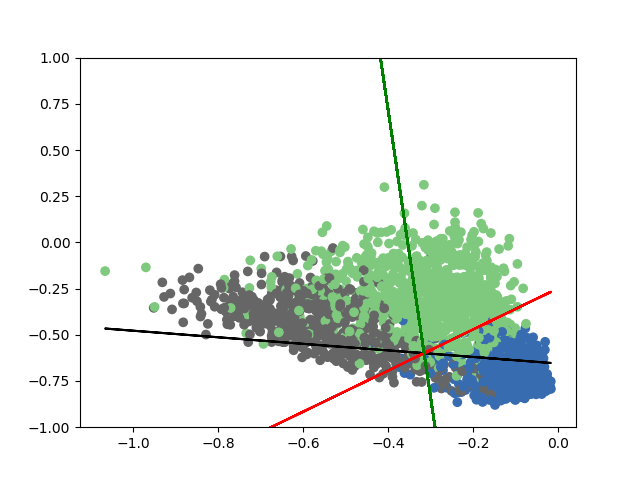
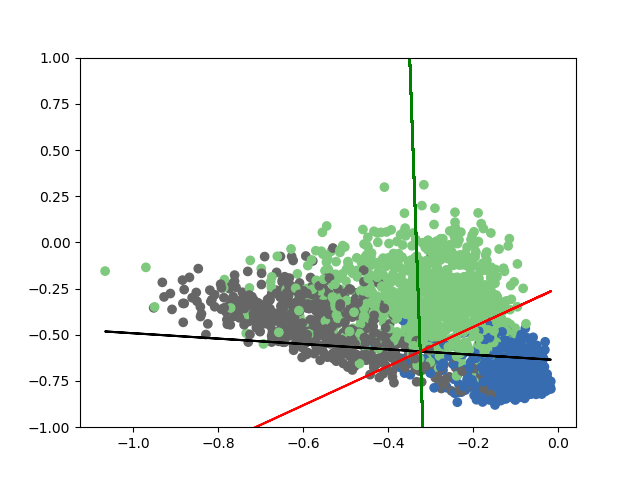
switch to backend for HPC cluster plot

diff --git a/main.py b/main.py
@@ -1,5 +1,6 @@
 import os
 import matplotlib.pyplot as plt
+plt.switch_backend('agg')
 from LogisticRegression import logistic_regression
 from LRM import logistic_regression_multiclass
 from DataReader import *
@@ -217,10 +218,10 @@ def main():
     print(logisticR_classifier_multiclass.get_params())
     print(logisticR_classifier_multiclass.score(train_X, train_y))
     '''
-    '''
-    logisticR_classifier_multiclass = logistic_regression_multiclass(learning_rate=2, max_iter=200,  k= 3)
+
+    logisticR_classifier_multiclass = logistic_regression_multiclass(learning_rate=0.5, max_iter=400,  k= 3)
     logisticR_classifier_multiclass.fit_BGD(train_X, train_y, train_X.shape[0])
-    print('Hyper Parameters; 2,200, full_range')
+    print('Hyper Parameters: 0.5,400, full_range')
     print(logisticR_classifier_multiclass.get_params())
     print(logisticR_classifier_multiclass.score(train_X, train_y))
     ### END YOUR CODE
@@ -234,7 +235,7 @@ def main():
     print('test (validation) accuracy')
     print(logisticR_classifier_multiclass.score(valid_X, valid_y))
     ### END YOUR CODE
-    '''
+    
 
     # ------------Connection between sigmoid and softmax------------
     ############ Now set k=2, only use data from '1' and '2' 
